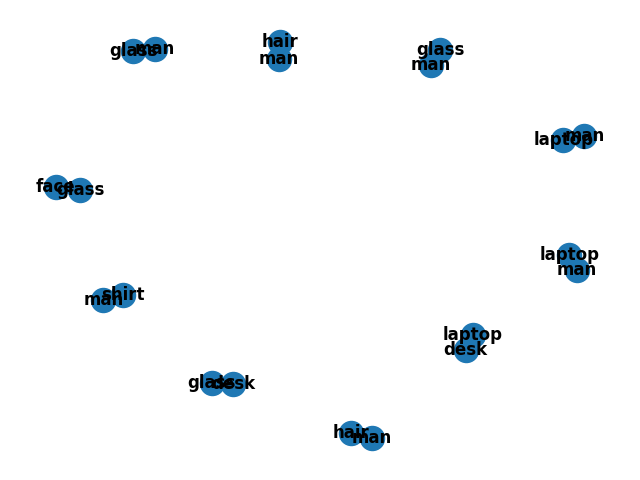
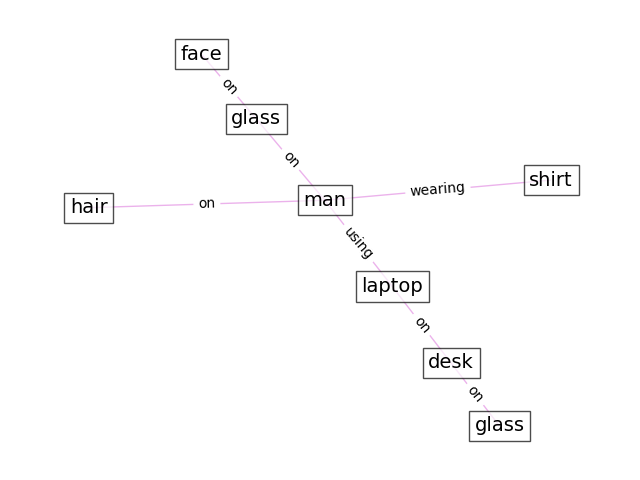
Fixed framegraph and added drawing layout

diff --git a/framegraph.py b/framegraph.py
@@ -1,0 +1,83 @@
+import networkx as nx
+import json
+from structures.scene import SceneObject
+import matplotlib.pyplot as plt
+from PIL import Image
+
+
+class FrameGraph():
+
+    def __init__(self):
+        self.g = nx.Graph()
+
+    def create_graph(self, graph_path):
+        """
+            Creates graph for a single frame
+        """
+        print("Creating graph...")
+        with open(graph_path, "r") as file:
+            triples = json.load(file)
+            file.close()
+
+        for triple_dict in triples:
+            sub = triple_dict["subject"]
+            pred = triple_dict["predicate"]
+            obj = triple_dict["object"]
+            # print("Got triple: subj = ", sub, " pred = ", pred, " obj = ", obj)
+            sub_obj = SceneObject(sub["id"], sub["xmin"], sub["ymin"], sub["xmax"], sub["ymax"])
+
+            predicate = pred["id"]
+            obj_obj = SceneObject(obj["id"], obj["xmin"], obj["ymin"], obj["xmax"], obj["ymax"])
+
+            graph_subj = self.node_in_graph(sub_obj)
+            graph_obj = self.node_in_graph(obj_obj)
+
+            # adding nodes and edges gets ignored in graph if already exists so no additional check necessary
+            self.g.add_node(graph_subj)
+            self.g.add_node(graph_obj)
+            self.g.add_edge(graph_subj, graph_obj, relation=predicate)
+
+    def node_in_graph(self, subj):
+        """
+            Check if node already exists in graph or is sufficiently similar for same frame to identify same objects
+            return that node if exists, otherwise the original node
+        """
+        for node in self.g.nodes:
+            if node.name == subj.name and subj.approximately_same(node, 0.3):
+                return node
+        return subj
+
+    def draw_graph(self):
+        pos = nx.spring_layout(self.g, seed=7)
+
+        edge_width = [len(self.g.get_edge_data(u, v)) for u, v in self.g.edges()]
+        nx.draw_networkx_edges(self.g, pos, alpha=0.3, width=edge_width, edge_color="m")
+
+        edge_labels = nx.get_edge_attributes(self.g, "relation")
+        nx.draw_networkx_edge_labels(self.g, pos, edge_labels)
+
+        nx.draw_networkx_nodes(self.g, pos, node_size=0, node_color="#210070", alpha=0.9)
+        label_options = {"ec": "k", "fc": "white", "alpha": 0.7}
+        nx.draw_networkx_labels(self.g, pos, font_size=14, bbox=label_options)
+
+        ax = plt.gca()
+        ax.margins(0.1, 0.05)
+        plt.axis("off")
+        plt.tight_layout()
+        plt.savefig("eval/graphs/lookatthisgraph.png")
+
+    def run(self):
+        path_to_result = "eval/reltr/2398798.json"
+        self.create_graph(path_to_result)
+        print("Graph created!")
+        print(self.g)
+        self.draw_graph()
+
+        # open image of graph
+        im = Image.open("eval/graphs/lookatthisgraph.png")
+        im.show()
+
+
+if __name__ == "__main__":
+    knowledgeGraph = FrameGraph()
+    knowledgeGraph.run()
